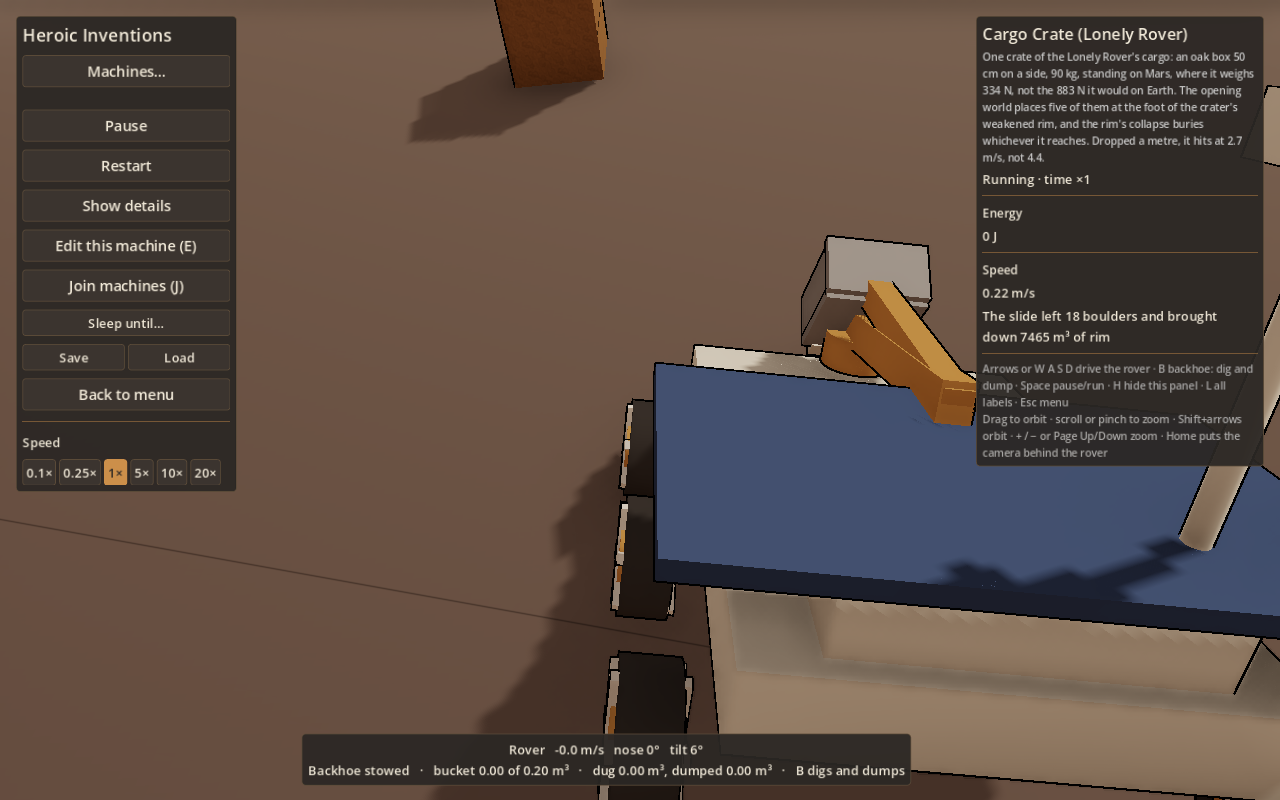
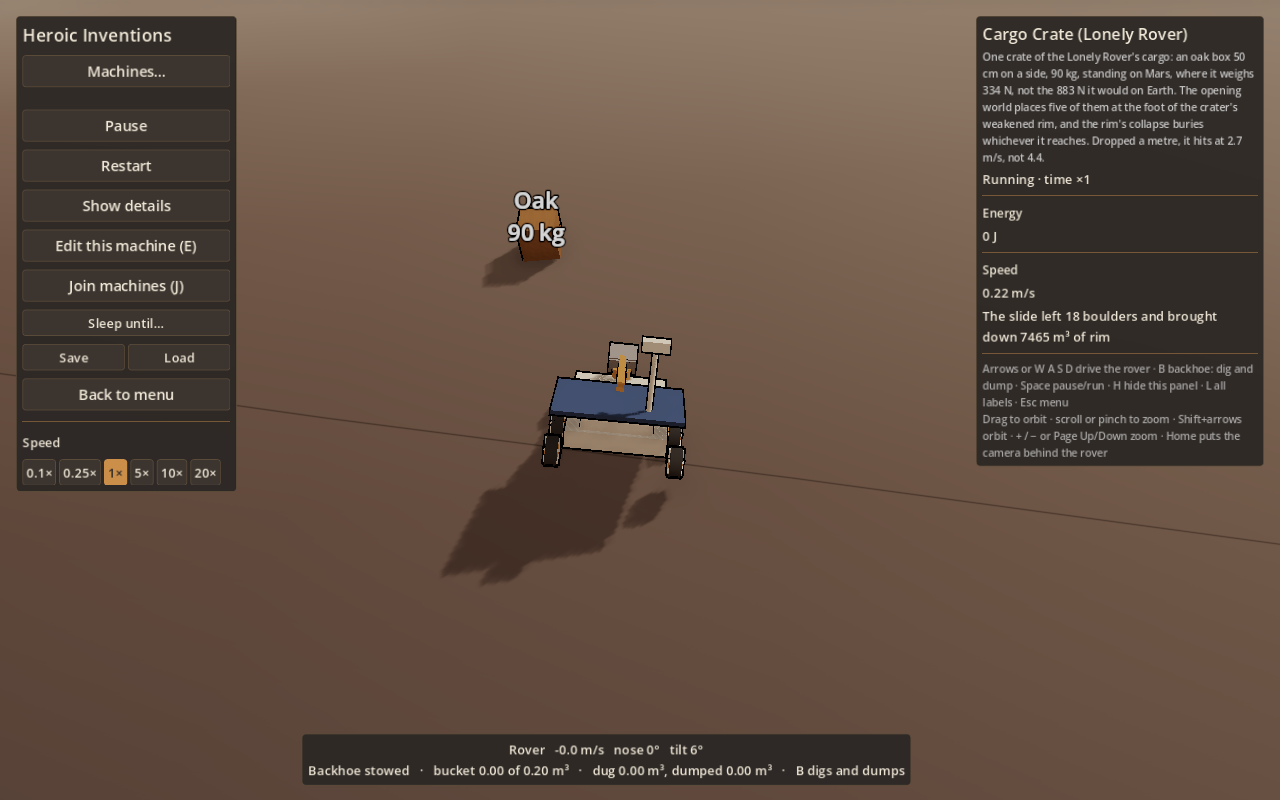
The game's panels leave Edit and Join to ClearWorld, a click on a machine in the game no longer re-zooms the follow camera, the Nearby list names placements, and the boulder test says what it measures (nearest boulder, 6.4 m from the bank's crate; none rests on it in this run). Baseline frame re-sho

diff --git a/game/scripts/Main.Rover.cs b/game/scripts/Main.Rover.cs
@@ -188,7 +188,7 @@ public partial class Main
         foreach (var child in col.GetChildren().OfType<Control>())
             if (child != _roverInfo && child != _hudNote && child != _hudControls && child != _operatorSection) Hide(child);
         // the left panel offers sleep, save and load, menu and speed (and pause); the machine list, restart, details, edit and join are for machine runs
-        foreach (Control c in new Control[] { _machinesToggle, _machineList, _restartButton, _detailsButton, _editButton, _joinButton }) Hide(c);
+        foreach (Control c in new Control[] { _machinesToggle, _machineList, _restartButton, _detailsButton }) Hide(c);
     }
 
     private void Hide(Control c)
@@ -211,6 +211,7 @@ public partial class Main
         var r = _rover;
         // Main re-shows these when it focuses a machine or folds the menu; keep them away while the rover is the player
         foreach (var c in _roverHidden.Keys) if (IsInstanceValid(c) && c.Visible) c.Visible = false;
+        _editButton.Visible = _joinButton.Visible = false;   // (not restored: ClearWorld and LoadWorld own these two)
         _roverState!.Text = $"{(_running ? "Running" : "Paused")} · time ×{_timeScale:0.##}";
         _roverDrive!.Text = $"{r.Speed:0.0} m/s · nose {r.PitchDeg:+0;-0;0}° · tilt {r.TiltDeg:0}°";
         _roverArm!.Text = $"{r.ArmStatus}\nReaches {Rover.ArmReach:0.0} m · pushes up to {RoverSpec.PushForce(r.GroundGravity) / 1000:0.0} kN · never lifts a load. B digs and dumps.";
@@ -221,7 +222,7 @@ public partial class Main
                          .Select(x => (x.View, Distance: here.DistanceTo(x.Box!.Value.Position.Max(here.Min(x.Box.Value.End)))))
                          .Where(x => x.Distance < 25).OrderBy(x => x.Distance).Take(3).ToList();
         _roverNear!.Text = near.Count == 0 ? "No machine within 25 m."
-            : string.Join("\n", near.Select(x => $"{DisplayNames.GetValueOrDefault(_viewMachine.GetValueOrDefault(x.View, ""), _viewMachine.GetValueOrDefault(x.View, "machine"))} {x.Distance:0.0} m"
+            : string.Join("\n", near.Select(x => $"{_byName.FirstOrDefault(kv => kv.Value == x.View).Key ?? "machine"} {x.Distance:0.0} m"
                                                    + (x.Distance <= Rover.ArmReach ? " (in reach)" : "")));
         _roverNote!.Text = RoverSaid is { } said ? said : "";
         _roverNote.Visible = _roverNote.Text.Length > 0;

diff --git a/game/scripts/Main.cs b/game/scripts/Main.cs
@@ -1531,7 +1531,7 @@ public partial class Main : Node3D
                 else if (mb.ButtonIndex == MouseButton.Left && mb.Position.DistanceTo(_pressAt) < 4)
                 {
                     if (_joining) JoinPickAt(mb.Position);
-                    else FocusMachineAt(mb.Position);
+                    else if (!RoverIsPlayer) FocusMachineAt(mb.Position);   // (in the game the rover's hand focuses what it touches, without moving the follow camera)
                 }
                 break;
             case InputEventMouseButton { ButtonIndex: MouseButton.Middle } mb:
